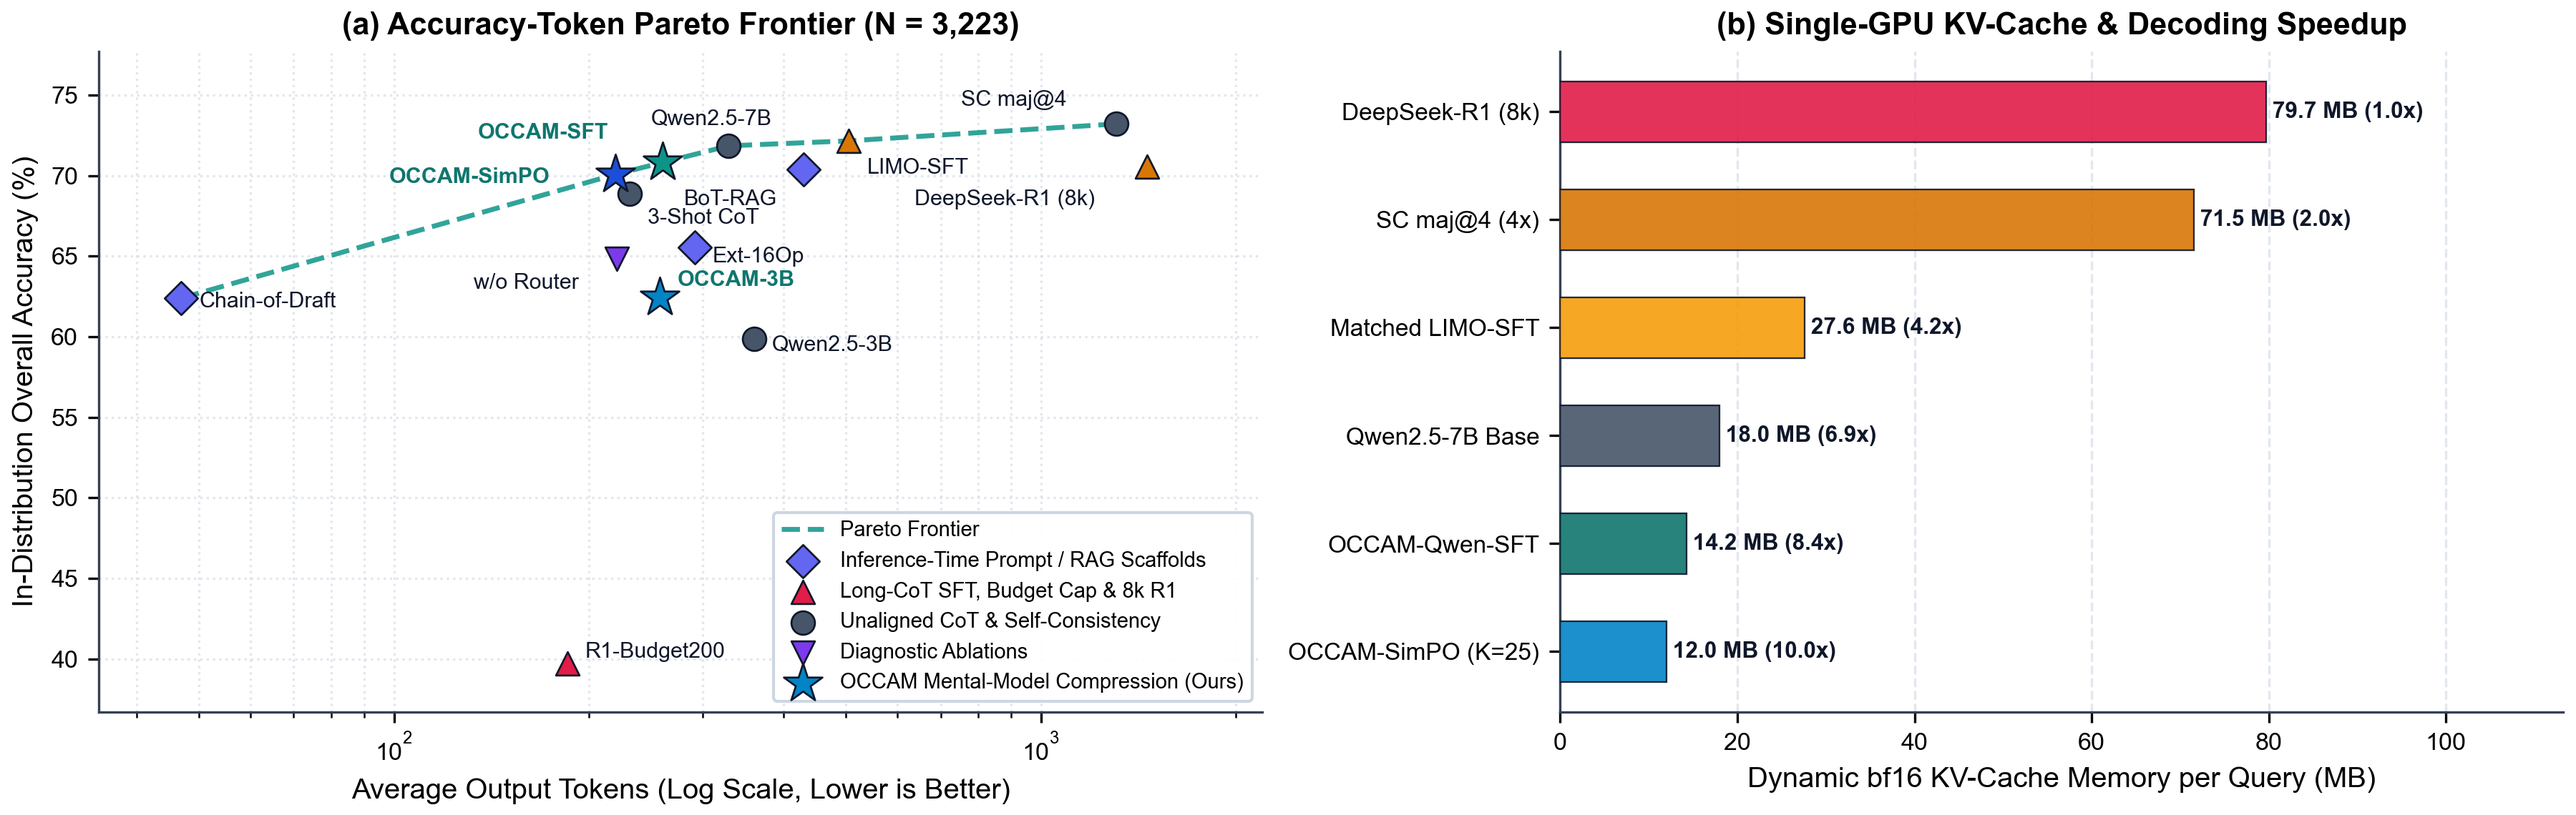
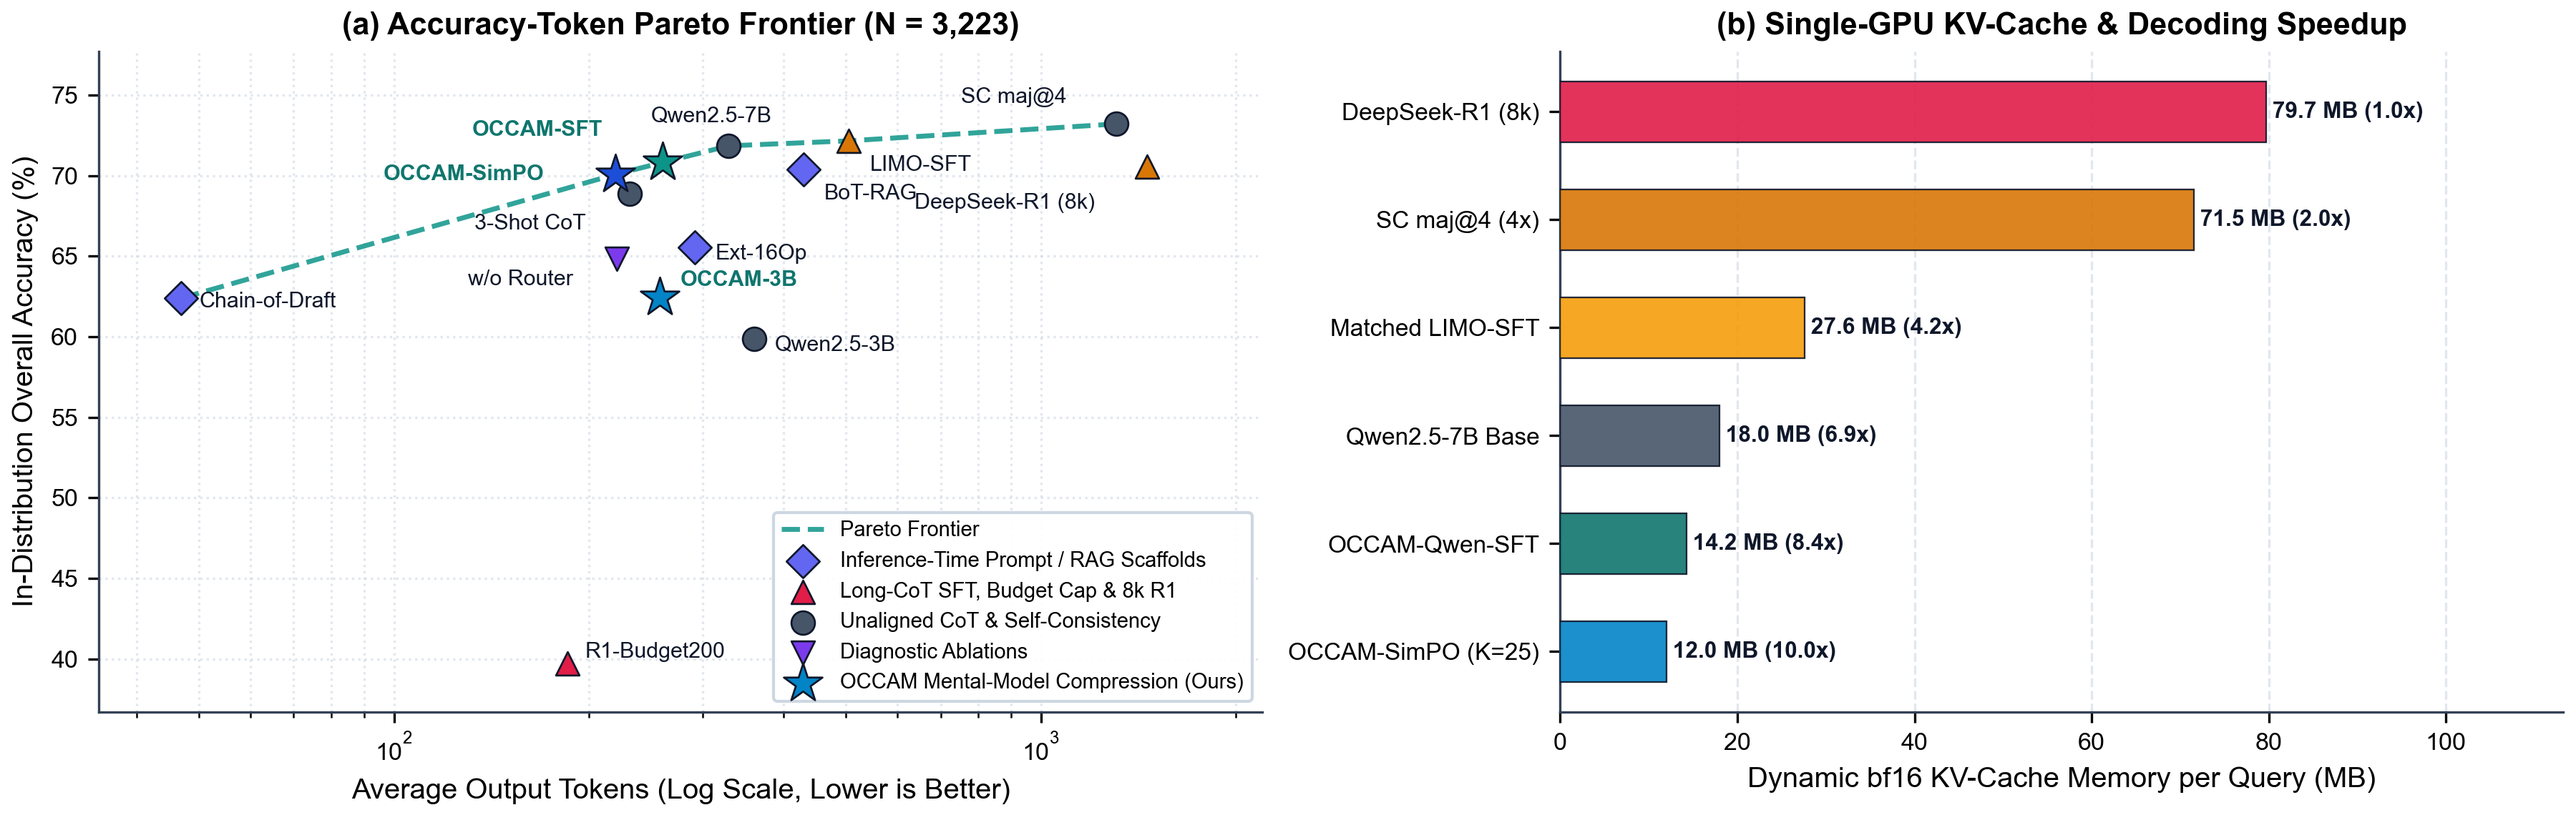
Upgrade canonical neuro-cognitive taxonomy, Comic Sans MS vector SVG architecture, R1-Budget200 control, and regime-adaptive scripts

diff --git a/scripts/04b_stats_probes_and_plots.py b/scripts/04b_stats_probes_and_plots.py
@@ -518,18 +518,18 @@ def plot_fig2_pareto(metrics_map: Dict[str, dict]):
     plot_specs = [
         ("Concise-CoD-7B", "Chain-of-Draft", (6, -3)),
         ("R1-Budget200-7B", "R1-Budget200", (6, 2)),
-        ("FewShot-3CoT-7B", "3-Shot CoT", (6, -10)),
-        ("Ext-16Op-Harness-7B", "Ext-16Op", (6, -5)),
-        ("Base-7B", "Qwen2.5-7B", (-26, 7)),
-        ("Base-3B", "Qwen2.5-3B", (6, -4)),
-        ("BoT-Retrieval-7B", "BoT-RAG", (-40, -12)),
-        ("LIMO-LongCoT-SFT-7B", "LIMO-SFT", (6, -11)),
-        ("R1-Distill-7B", "DeepSeek-R1 (8k)", (-78, -13)),
-        ("SC-Maj4-7B", "SC maj@4", (-52, 6)),
-        ("Ablation-wo-Router-7B", "w/o Router", (-48, -10)),
-        ("OCCAM-3B-SFT", "OCCAM-3B", (6, 4)),
-        ("Sweep-Scale-400-7B-SimPO", "OCCAM-SimPO", (-76, -3)),
-        ("OCCAM-7B-SFT", "OCCAM-SFT", (-62, 8)),
+        ("FewShot-3CoT-7B", "3-Shot CoT", (-52, -12)),
+        ("Ext-16Op-Harness-7B", "Ext-16Op", (7, -4)),
+        ("Base-7B", "Qwen2.5-7B", (-26, 8)),
+        ("Base-3B", "Qwen2.5-3B", (7, -4)),
+        ("BoT-Retrieval-7B", "BoT-RAG", (7, -10)),
+        ("LIMO-LongCoT-SFT-7B", "LIMO-SFT", (7, -10)),
+        ("R1-Distill-7B", "DeepSeek-R1 (8k)", (-78, -14)),
+        ("SC-Maj4-7B", "SC maj@4", (-52, 7)),
+        ("Ablation-wo-Router-7B", "w/o Router", (-50, -9)),
+        ("OCCAM-3B-SFT", "OCCAM-3B", (7, 4)),
+        ("Sweep-Scale-400-7B-SimPO", "OCCAM-SimPO", (-78, -2)),
+        ("OCCAM-7B-SFT", "OCCAM-SFT", (-64, 9)),
         ("OCCAM-Qwen-7B-Adaptive", "OCCAM-Qwen-Adapt", (-98, 7)),
         ("OCCAM-R1-7B-Adaptive", "OCCAM-R1-Adaptive", (-102, 6)),
     ]
@@ -621,8 +621,8 @@ def plot_fig2_pareto(metrics_map: Dict[str, dict]):
 
 
 def plot_fig6_radar_and_distribution(metrics_map: Dict[str, dict], raw_traces: Dict[str, List[dict]]):
-    fig = plt.figure(figsize=(12.0, 4.10), layout="none")
-    gs = fig.add_gridspec(1, 2, left=0.055, right=0.985, bottom=0.13, top=0.71, width_ratios=[0.95, 1.25], wspace=0.24)
+    fig = plt.figure(figsize=(12.0, 4.35), layout="none")
+    gs = fig.add_gridspec(1, 2, left=0.055, right=0.985, bottom=0.14, top=0.69, width_ratios=[0.95, 1.25], wspace=0.25)
 
     ax_rad = fig.add_subplot(gs[0, 0], polar=True)
     axes_labels = [
@@ -686,10 +686,10 @@ def plot_fig6_radar_and_distribution(metrics_map: Dict[str, dict], raw_traces: D
         handles_top.append(ln)
         labels_top.append(lbl)
 
-    ax_rad.set_title("(a) Holistic 6-Axis Capability & Efficiency Profile", pad=11, fontsize=10.3, fontweight="bold", loc="center")
+    ax_rad.set_title("(a) Holistic 6-Axis Capability & Efficiency Profile", y=1.18, fontsize=10.3, fontweight="bold", loc="center")
 
     fig.legend(
-        handles_top, labels_top, loc="upper center", bbox_to_anchor=(0.50, 0.99),
+        handles_top, labels_top, loc="upper center", bbox_to_anchor=(0.50, 0.985),
         ncol=5, frameon=True, facecolor="#F8FAFC", edgecolor="#CBD5E1", fontsize=7.8,
         columnspacing=1.1, handlelength=2.1
     )
@@ -878,7 +878,7 @@ def plot_fig5_ablation_and_horizon(metrics_map: Dict[str, dict]):
     ax2.axvline(25, color=PAL["occam_sft"], linestyle="--", linewidth=1.35, label="Optimal Horizon (K=25)")
     ax2.set_xlabel("Reference-Free SimPO Steps (K)")
     ax2.set_ylabel("Framing-4 Macro Accuracy (%)", color=PAL["occam_simpo"])
-    ax2.set_ylim(58, 70)
+    ax2.set_ylim(54.5, 69.5)
     ax2.grid(True, linestyle=":", color=PAL["grid"], alpha=0.55)
 
     ax2_r = ax2.twinx()
@@ -890,7 +890,7 @@ def plot_fig5_ablation_and_horizon(metrics_map: Dict[str, dict]):
 
     h1, l1 = ax2.get_legend_handles_labels()
     h2, l2 = ax2_r.get_legend_handles_labels()
-    ax2.legend(h1 + h2, l1 + l2, loc="lower left", frameon=True, facecolor="white", edgecolor="#CBD5E1", fontsize=7.2, framealpha=0.95)
+    ax2.legend(h1 + h2, l1 + l2, loc="lower right", frameon=True, facecolor="white", edgecolor="#CBD5E1", fontsize=7.2, framealpha=0.95)
     ax2.set_title("(b) Preference Horizon & Likelihood Displacement", loc="center")
 
     save_locked_canvas(fig, "fig5_ablation_and_horizon")
